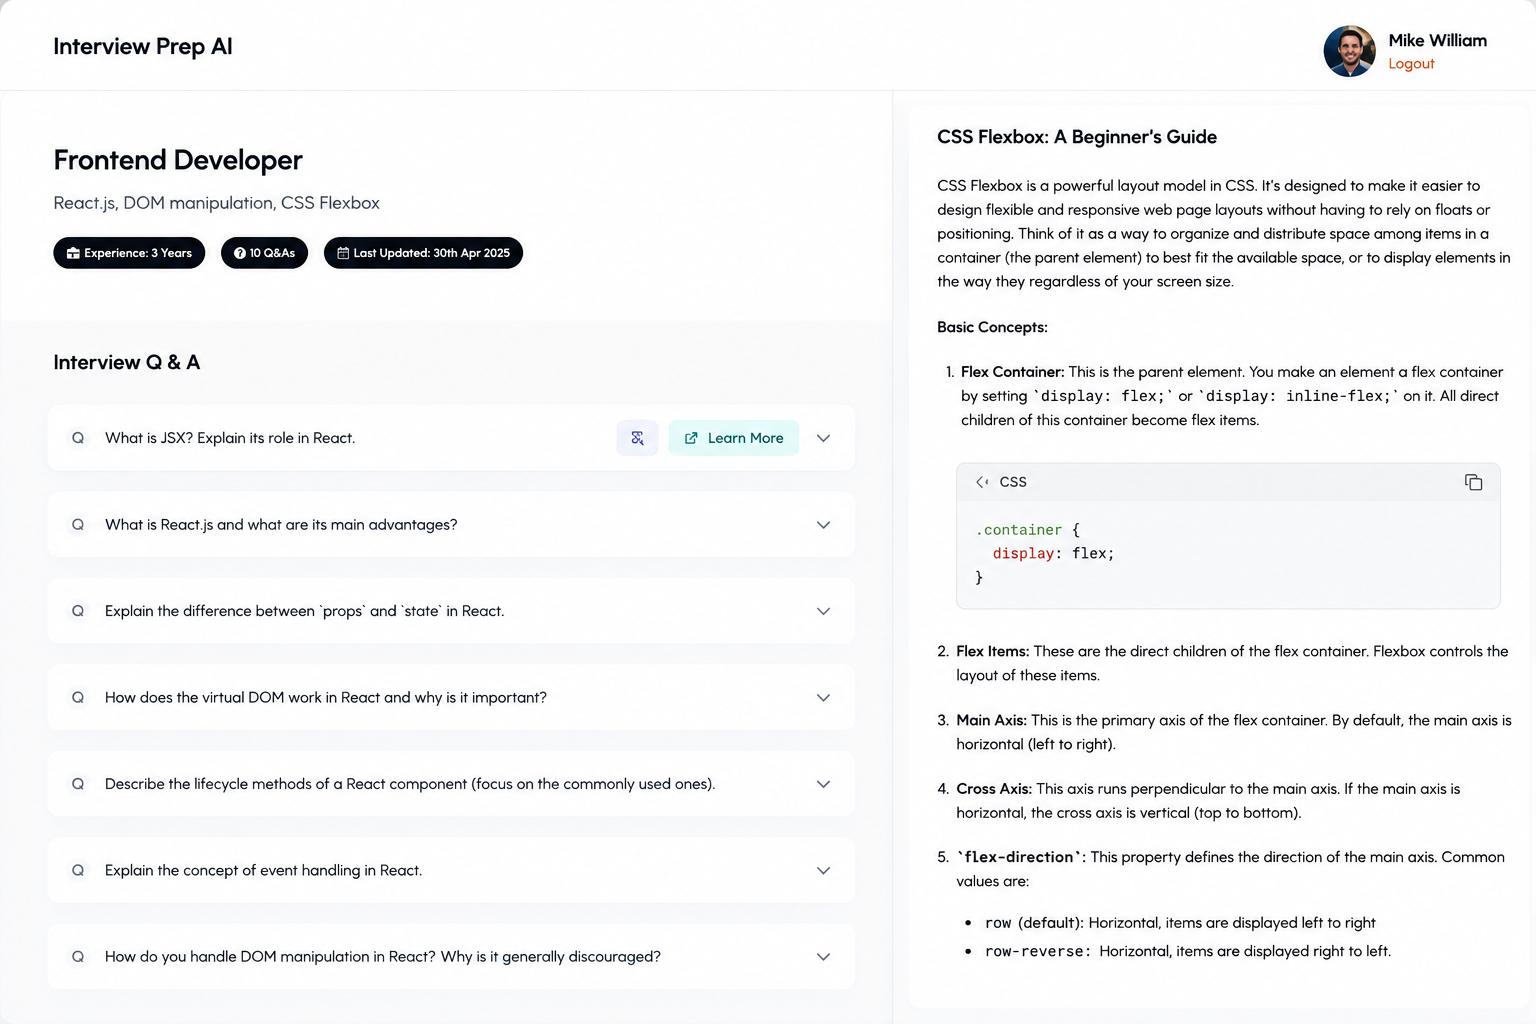
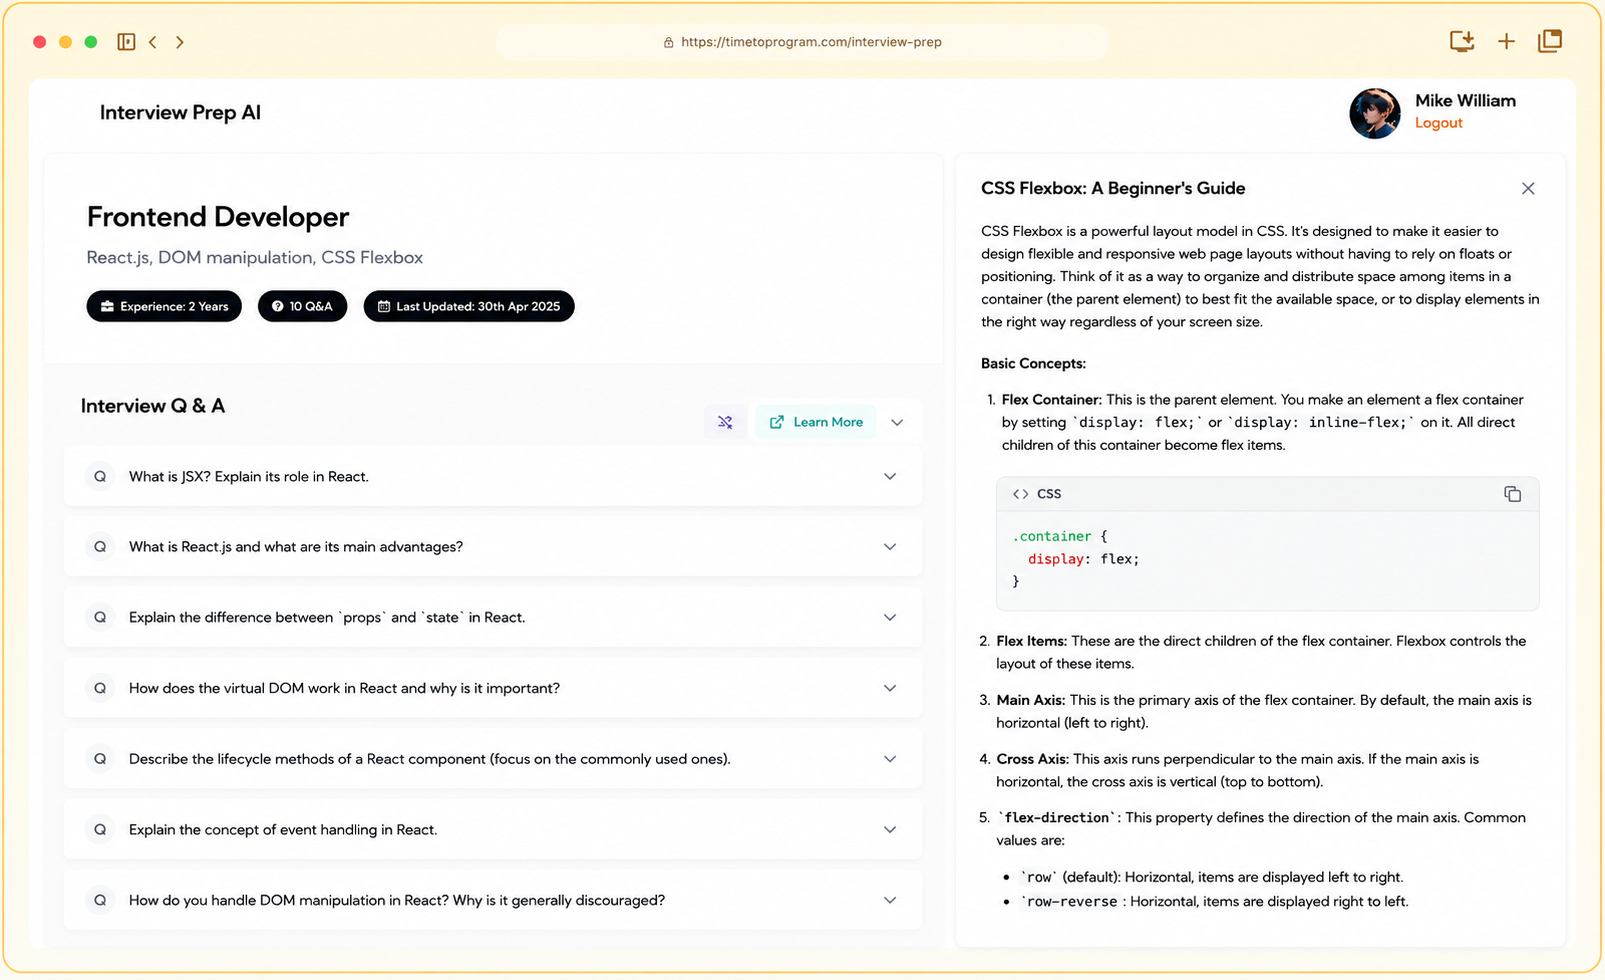
added the hero section

diff --git a/frontend/src/pages/LandingPage.jsx b/frontend/src/pages/LandingPage.jsx
@@ -1,7 +1,7 @@
 // import { useNavigate } from "react-router-dom";
-// import HERO_IMG from "../assets/hero-img.png";
+import HERO_IMG from "../assets/hero-img.png";
 // import { APP_FEATURES } from "../utils/data";
-import {LuSpakles} from 'react-icons/lu'
+import {LuSparkles} from 'react-icons/lu'
 
 function LandingPage() {
 //   const navigate = useNavigate();
@@ -35,7 +35,7 @@ function LandingPage() {
             <div className="w-full md:w-1/2 pr-4 mb-8 md:mb-0">
               <div className="flex items-center justify-left mb-2">
                 <div className="flex items-center gap-2 text-[13px] text-amber-600 font-semibold bg-amber-100 px-3 py-1 rounded-full border border-amber-300">
-                  <LuSpakles/> AI Powered
+                  <LuSparkles/> AI Powered
                 </div>
               </div>
 
@@ -65,6 +65,21 @@ function LandingPage() {
           </div>
         </div>
       </div>
+
+      <div className='w-full min-h-full relative z-10 mb-56'>
+        <div>
+          <section className='flex items-center justify-center -mt-36'>
+            <img 
+               src={HERO_IMG}
+               alt='Hero Image'
+               className='w-[80vw] rounded-lg'
+            />
+          </section>
+        </div>
+      </div>
+
+      
+
     </>
   );
 }
